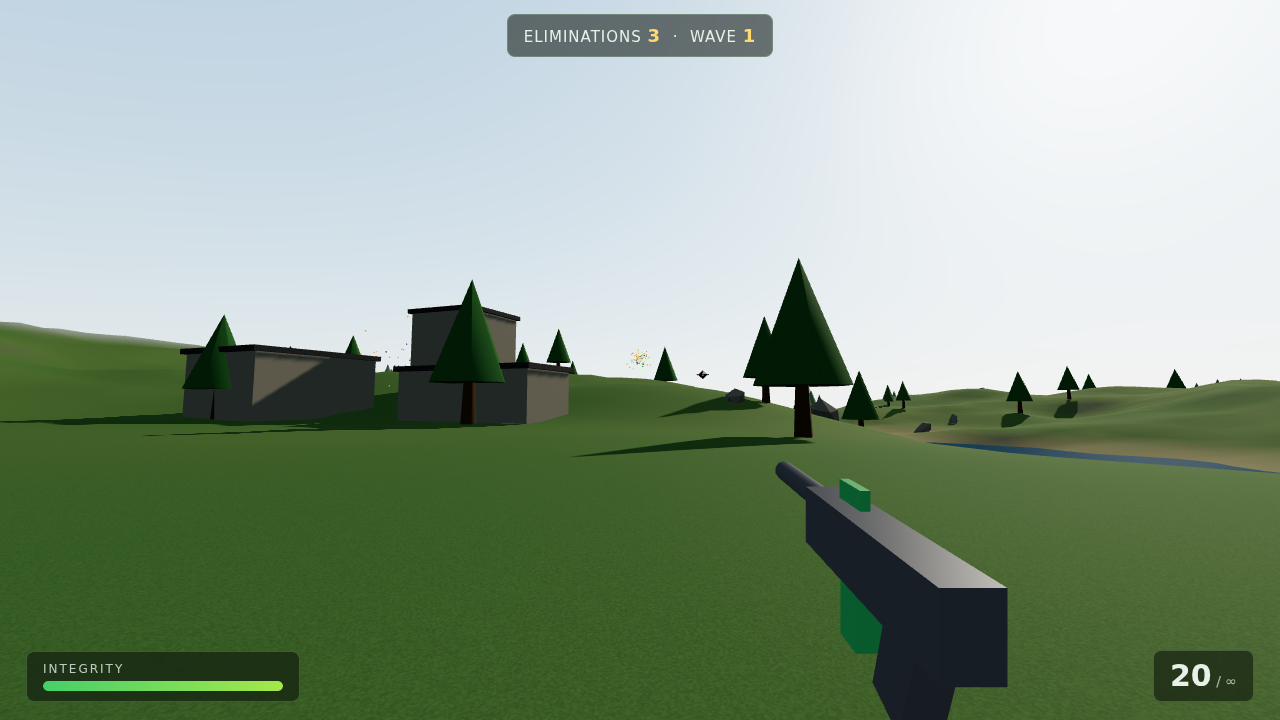
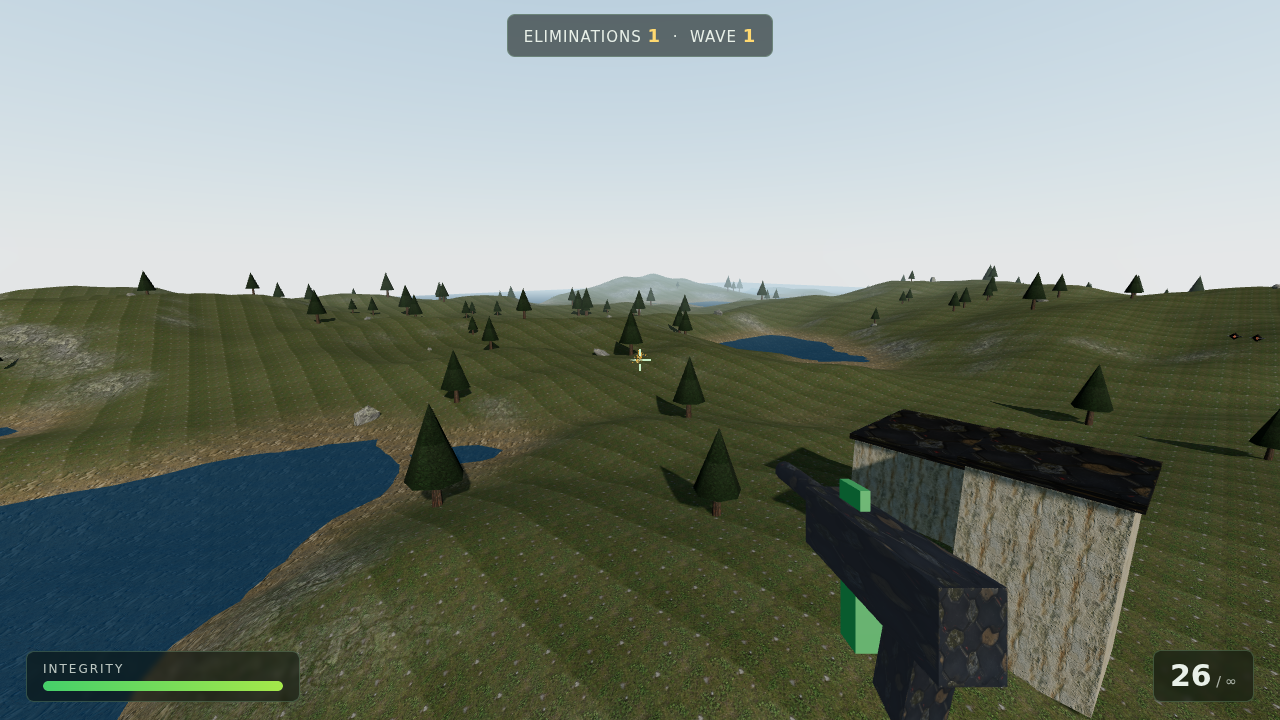
Add Higgsfield AI-generated PBR textures and terrain splat shader
Generate seven photoreal seamless materials (grass, rock, sand,
concrete, bark, foliage, gunmetal) with Higgsfield nano-banana, then
post-process each through the game-generation texture factory: Moisan
FFT periodic decomposition + cyclic min-cut seam repair and wrap-around
normal-map extraction. All seam ratios verified <= 1.22.

Terrain now renders through a custom four-way splat blend
(grass/rock/sand/snow by slope and altitude) patched into
MeshStandardMaterial via onBeforeCompile, blending both basecolor and
normal maps per weight. Trees, rocks, buildings, drones, the viewmodel
and the water (scrolling normal map) all pick up their own PBR maps.

Claude-Session: https://claude.ai/code/session_019pwj81oHUpWZEjFJ2i7r5B

diff --git a/src/main.js b/src/main.js
@@ -55,6 +55,36 @@ document.getElementById('app').appendChild(renderer.domElement);
 const scene = new THREE.Scene();
 scene.fog = new THREE.Fog(0xbcd3de, 120, 460);
 
+// ---- AI-generated PBR textures (Higgsfield, post-processed to seamless) ----
+const texLoader = new THREE.TextureLoader();
+const ANISO = new URLSearchParams(location.search).has('noaniso')
+  ? 1 : Math.min(8, renderer.capabilities.getMaxAnisotropy());
+function loadTex(file, repeat, srgb = true) {
+  const t = texLoader.load(`assets/textures/${file}`);
+  t.wrapS = t.wrapT = THREE.RepeatWrapping;
+  if (repeat) t.repeat.set(repeat[0], repeat[1]);
+  t.anisotropy = ANISO;
+  if (srgb) t.colorSpace = THREE.SRGBColorSpace;
+  return t;
+}
+const TEX = {
+  grassBC: loadTex('grass_basecolor.jpg', [110, 110]),
+  grassN: loadTex('grass_normal.jpg', [110, 110], false),
+  rockBC: loadTex('rock_basecolor.jpg'),
+  rockN: loadTex('rock_normal.jpg', null, false),
+  sandBC: loadTex('sand_basecolor.jpg'),
+  sandN: loadTex('sand_normal.jpg', null, false),
+  concreteBC: loadTex('concrete_basecolor.jpg'),
+  concreteN: loadTex('concrete_normal.jpg', null, false),
+  barkBC: loadTex('bark_basecolor.jpg', [2, 1]),
+  barkN: loadTex('bark_normal.jpg', [2, 1], false),
+  foliageBC: loadTex('foliage_basecolor.jpg', [3, 2]),
+  foliageN: loadTex('foliage_normal.jpg', [3, 2], false),
+  metalBC: loadTex('metal_basecolor.jpg'),
+  metalN: loadTex('metal_normal.jpg', null, false),
+  waterN: loadTex('sand_normal.jpg', [50, 50], false),
+};
+
 const camera = new THREE.PerspectiveCamera(72, innerWidth / innerHeight, 0.1, 900);
 
 // sky + sun
@@ -86,9 +116,7 @@ terrainGeo.rotateX(-Math.PI / 2);
 {
   const pos = terrainGeo.attributes.position;
   const colors = new Float32Array(pos.count * 3);
-  const grass = new THREE.Color(0x5f8c45), dry = new THREE.Color(0x8f9c56);
-  const rock = new THREE.Color(0x77746c), sand = new THREE.Color(0xb5a878);
-  const snow = new THREE.Color(0xe8ecec), tmp = new THREE.Color();
+  const splat = new Float32Array(pos.count * 4);   // grass / rock / sand / snow
   for (let i = 0; i < pos.count; i++) {
     const x = pos.getX(i), z = pos.getZ(i);
     const y = terrainHeight(x, z);
@@ -96,36 +124,58 @@ terrainGeo.rotateX(-Math.PI / 2);
     const e = 1.5;
     const slope = Math.abs(terrainHeight(x + e, z) - terrainHeight(x - e, z)) / (2 * e)
                 + Math.abs(terrainHeight(x, z + e) - terrainHeight(x, z - e)) / (2 * e);
-    tmp.copy(grass).lerp(dry, (noise2(x * 0.06, z * 0.06) * 0.6 + noise2(x * 0.013, z * 0.013) * 0.4) * 0.55);
-    if (y < WATER_LEVEL + 2.5) tmp.lerp(sand, THREE.MathUtils.smoothstep(WATER_LEVEL + 2.5 - y, 0, 2.5));
-    tmp.lerp(rock, THREE.MathUtils.smoothstep(slope, 0.45, 0.9));
-    if (y > 13) tmp.lerp(snow, THREE.MathUtils.smoothstep(y, 13, 19));
-    colors[i * 3] = tmp.r; colors[i * 3 + 1] = tmp.g; colors[i * 3 + 2] = tmp.b;
+    const sandW = y < WATER_LEVEL + 2.5 ? THREE.MathUtils.smoothstep(WATER_LEVEL + 2.5 - y, 0, 2.5) : 0;
+    const rockW = THREE.MathUtils.smoothstep(slope, 0.4, 0.85) * (1 - sandW);
+    const snowW = y > 13 ? THREE.MathUtils.smoothstep(y, 13, 19) * (1 - rockW * 0.4) : 0;
+    const grassW = Math.max(0, 1 - sandW - rockW - snowW);
+    splat[i * 4] = grassW; splat[i * 4 + 1] = rockW;
+    splat[i * 4 + 2] = sandW; splat[i * 4 + 3] = snowW;
+    // subtle brightness variation so large fields don't read uniform
+    const v = 0.8 + 0.2 * noise2(x * 0.05 + 5.1, z * 0.05 + 9.4);
+    colors[i * 3] = v; colors[i * 3 + 1] = v; colors[i * 3 + 2] = v * 0.98;
   }
   terrainGeo.setAttribute('color', new THREE.BufferAttribute(colors, 3));
+  terrainGeo.setAttribute('splat', new THREE.BufferAttribute(splat, 4));
   terrainGeo.computeVertexNormals();
 }
-// tiled grayscale noise so nearby ground has visible grain
-const detailTex = (() => {
-  const c = document.createElement('canvas');
-  c.width = c.height = 256;
-  const ctx = c.getContext('2d');
-  const img = ctx.createImageData(256, 256);
-  for (let i = 0; i < img.data.length; i += 4) {
-    const v = 212 + Math.floor(Math.random() * 34);
-    img.data[i] = img.data[i + 1] = img.data[i + 2] = v;
-    img.data[i + 3] = 255;
-  }
-  ctx.putImageData(img, 0, 0);
-  const tex = new THREE.CanvasTexture(c);
-  tex.wrapS = tex.wrapT = THREE.RepeatWrapping;
-  tex.repeat.set(180, 180);
-  tex.anisotropy = renderer.capabilities.getMaxAnisotropy();
-  tex.colorSpace = THREE.SRGBColorSpace;
-  return tex;
-})();
-const terrain = new THREE.Mesh(terrainGeo,
-  new THREE.MeshStandardMaterial({ vertexColors: true, map: detailTex, roughness: 0.95, metalness: 0 }));
+// splat-mapped terrain: grass/rock/sand textures blended by the vertex
+// weights, snow as a flat tone; normals blended with the same weights
+const terrainMat = new THREE.MeshStandardMaterial({
+  map: TEX.grassBC, normalMap: TEX.grassN, vertexColors: true,
+  roughness: 0.95, metalness: 0,
+});
+terrainMat.normalScale.set(0.9, 0.9);
+terrainMat.onBeforeCompile = (shader) => {
+  shader.uniforms.rockMap = { value: TEX.rockBC };
+  shader.uniforms.rockNormalMap = { value: TEX.rockN };
+  shader.uniforms.sandMap = { value: TEX.sandBC };
+  shader.uniforms.sandNormalMap = { value: TEX.sandN };
+  shader.vertexShader = shader.vertexShader
+    .replace('#include <common>', '#include <common>\nattribute vec4 splat;\nvarying vec4 vSplat;')
+    .replace('#include <begin_vertex>', '#include <begin_vertex>\nvSplat = splat;');
+  shader.fragmentShader = shader.fragmentShader
+    .replace('#include <common>', `#include <common>
+uniform sampler2D rockMap;
+uniform sampler2D rockNormalMap;
+uniform sampler2D sandMap;
+uniform sampler2D sandNormalMap;
+varying vec4 vSplat;
+vec4 splatW;`)
+    .replace('#include <map_fragment>', `
+splatW = vSplat / max(vSplat.x + vSplat.y + vSplat.z + vSplat.w, 1e-4);
+vec4 texMix = texture2D(map, vMapUv) * splatW.x
+            + texture2D(rockMap, vMapUv * 0.35) * splatW.y
+            + texture2D(sandMap, vMapUv * 0.6) * splatW.z
+            + vec4(0.85, 0.87, 0.92, 1.0) * splatW.w;
+diffuseColor *= texMix;`)
+    .replace('#include <normal_fragment_maps>', `
+vec3 mapN = ( texture2D(normalMap, vNormalMapUv).xyz * (splatW.x + splatW.w)
+            + texture2D(rockNormalMap, vNormalMapUv * 0.35).xyz * splatW.y
+            + texture2D(sandNormalMap, vNormalMapUv * 0.6).xyz * splatW.z ) * 2.0 - 1.0;
+mapN.xy *= normalScale;
+normal = normalize( tbn * mapN );`);
+};
+const terrain = new THREE.Mesh(terrainGeo, terrainMat);
 terrain.receiveShadow = true;
 scene.add(terrain);
 
@@ -135,6 +185,7 @@ const water = new THREE.Mesh(
   new THREE.MeshStandardMaterial({
     color: 0x2b6f9e, transparent: true, opacity: 0.78,
     roughness: 0.15, metalness: 0.4,
+    normalMap: TEX.waterN, normalScale: new THREE.Vector2(0.25, 0.25),
   }));
 water.rotation.x = -Math.PI / 2;
 water.position.y = WATER_LEVEL;
@@ -167,8 +218,8 @@ function slopeAt(x, z) {
   trunkGeo.translate(0, 1.2, 0);
   const leafGeo = new THREE.ConeGeometry(1.7, 4.6, 7);
   leafGeo.translate(0, 4.2, 0);
-  const trunkMat = new THREE.MeshStandardMaterial({ color: 0x5d4429, roughness: 1 });
-  const leafMat = new THREE.MeshStandardMaterial({ color: 0x3a7034, roughness: 1 });
+  const trunkMat = new THREE.MeshStandardMaterial({ map: TEX.barkBC, normalMap: TEX.barkN, roughness: 1 });
+  const leafMat = new THREE.MeshStandardMaterial({ map: TEX.foliageBC, normalMap: TEX.foliageN, roughness: 1 });
   const trunks = new THREE.InstancedMesh(trunkGeo, trunkMat, spots.length);
   const leaves = new THREE.InstancedMesh(leafGeo, leafMat, spots.length);
   trunks.castShadow = leaves.castShadow = true;
@@ -189,7 +240,7 @@ function slopeAt(x, z) {
 {
   const spots = scatter(90, 24, (x, y) => y > WATER_LEVEL + 0.5);
   const rockGeo = new THREE.IcosahedronGeometry(1, 0);
-  const rockMat = new THREE.MeshStandardMaterial({ color: 0x8a877e, roughness: 1, flatShading: true });
+  const rockMat = new THREE.MeshStandardMaterial({ map: TEX.rockBC, normalMap: TEX.rockN, roughness: 1, flatShading: true });
   const rocks = new THREE.InstancedMesh(rockGeo, rockMat, spots.length);
   rocks.castShadow = rocks.receiveShadow = true;
   const m = new THREE.Matrix4(), q = new THREE.Quaternion(), s = new THREE.Vector3();
@@ -204,8 +255,15 @@ function slopeAt(x, z) {
 
 // abandoned outpost near spawn
 {
-  const concrete = new THREE.MeshStandardMaterial({ color: 0x9b9689, roughness: 0.9 });
-  const dark = new THREE.MeshStandardMaterial({ color: 0x3c3f45, roughness: 0.8 });
+  const concrete = new THREE.MeshStandardMaterial({ map: TEX.concreteBC, normalMap: TEX.concreteN, roughness: 0.9 });
+  const dark = new THREE.MeshStandardMaterial({ map: TEX.metalBC, normalMap: TEX.metalN, color: 0x8a8d92, roughness: 0.8 });
+  // tile the concrete roughly per 3.5m so big and small walls read the same
+  const scaleBoxUV = (geo, w, h, d) => {
+    const uv = geo.attributes.uv;
+    const s = Math.max(w, d) / 3.5, t = Math.max(h, 3) / 3.5;
+    for (let i = 0; i < uv.count; i++) uv.setXY(i, uv.getX(i) * s, uv.getY(i) * t);
+    return geo;
+  };
   const outpost = new THREE.Group();
   const buildings = [
     [28, 6, -34, 10, 5, 8], [40, 6, -26, 7, 8, 7], [33, 6, -18, 6, 4, 12],
@@ -213,7 +271,7 @@ function slopeAt(x, z) {
   ];
   for (const [x, , z, w, h, d] of buildings) {
     const y = terrainHeight(x, z);
-    const box = new THREE.Mesh(new THREE.BoxGeometry(w, h, d), concrete);
+    const box = new THREE.Mesh(scaleBoxUV(new THREE.BoxGeometry(w, h, d), w, h, d), concrete);
     box.position.set(x, y + h / 2 - 0.3, z);
     box.castShadow = box.receiveShadow = true;
     outpost.add(box);
@@ -231,7 +289,7 @@ function slopeAt(x, z) {
     leg.castShadow = true;
     outpost.add(leg);
   }
-  const cabin = new THREE.Mesh(new THREE.BoxGeometry(5, 3, 5), concrete);
+  const cabin = new THREE.Mesh(scaleBoxUV(new THREE.BoxGeometry(5, 3, 5), 5, 3, 5), concrete);
   cabin.position.set(0, ty + 13.5, -52);
   cabin.castShadow = true;
   outpost.add(cabin);
@@ -328,7 +386,8 @@ const sfx = {
 const gun = new THREE.Group();
 {
   const metal = new THREE.MeshStandardMaterial({
-    color: 0x565d66, roughness: 0.5, metalness: 0.4,
+    map: TEX.metalBC, normalMap: TEX.metalN,
+    color: 0xb8bdc4, roughness: 0.5, metalness: 0.4,
     emissive: 0x3a3f47, emissiveIntensity: 0.55,
   });
   const accent = new THREE.MeshStandardMaterial({ color: 0x71d68a, roughness: 0.4, metalness: 0.3, emissive: 0x1f4a2a });
@@ -380,7 +439,10 @@ function updateTracers(dt) {
 const enemies = [];
 const enemyBodies = [];   // meshes for raycasting
 const droneGeo = new THREE.OctahedronGeometry(0.65, 0);
-const droneMat = new THREE.MeshStandardMaterial({ color: 0x3a3f4a, roughness: 0.4, metalness: 0.8, flatShading: true });
+const droneMat = new THREE.MeshStandardMaterial({
+  map: TEX.metalBC, normalMap: TEX.metalN,
+  color: 0x9aa0aa, roughness: 0.4, metalness: 0.8, flatShading: true,
+});
 const eyeGeo = new THREE.SphereGeometry(0.18, 12, 12);
 const eyeMat = new THREE.MeshStandardMaterial({ color: 0xff3020, emissive: 0xff2010, emissiveIntensity: 2.5 });
 const ringGeo = new THREE.TorusGeometry(0.85, 0.05, 8, 24);
@@ -736,8 +798,9 @@ function update(dt) {
   updateParticles(dt);
   updateTracers(dt);
 
-  // gentle water shimmer
+  // gentle water shimmer + drifting ripples
   water.position.y = WATER_LEVEL + Math.sin(state.time * 0.8) * 0.08;
+  TEX.waterN.offset.set(state.time * 0.008, state.time * 0.005);
 }
 
 renderer.setAnimationLoop(() => {
